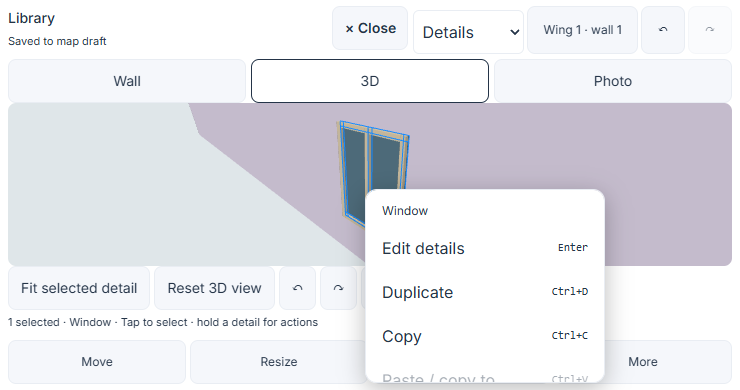
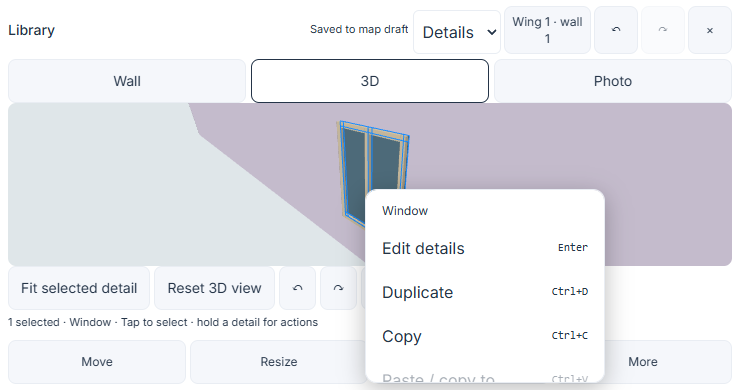
fix(editor): restore original mobile close control

diff --git a/web/src/photo-model.css b/web/src/photo-model.css
@@ -541,11 +541,8 @@
   display: none;
 }
 .model-compact header {
-  display: grid;
-  grid-template-columns: minmax(0, 1fr) auto;
-  grid-template-rows: auto auto;
-  column-gap: 8px;
-  row-gap: 0;
+  display: flex;
+  gap: 6px;
   padding: 0;
   min-height: 34px;
   flex: 0 0 auto;
@@ -563,21 +560,10 @@
   flex: 1;
 }
 .model-compact header output {
-  grid-column: 1;
-  grid-row: 2;
   font-size: 11px;
-  max-width: 100%;
-  max-height: 28px;
+  max-width: 42%;
+  max-height: 42px;
   overflow: auto;
-}
-.model-compact .model-close-workspace {
-  grid-column: 2;
-  grid-row: 1 / 3;
-  min-width: 76px;
-  min-height: 44px;
-  padding: 6px 10px;
-  font-weight: 600;
-  align-self: start;
 }
 .model-compact header [data-slot='dialog-description'],
 .model-compact .model-main-toolbar,
@@ -587,7 +573,7 @@
 }
 .model-mobile-navigation {
   display: grid;
-  grid-template-columns: minmax(70px, 1fr) minmax(50px, 1fr) 44px 44px;
+  grid-template-columns: minmax(70px, 1fr) minmax(50px, 1fr) 44px 44px 44px;
   gap: 3px;
 }
 .model-mobile-navigation label {

diff --git a/web/src/PhotoModelWorkspace.tsx b/web/src/PhotoModelWorkspace.tsx
@@ -1037,15 +1037,6 @@ function ModelWorkspace({
                 {state}
                 {workspace?.error ? ` · ${workspace.error}` : ''}
               </output>
-              {compact && (
-                <button
-                  className="model-close-workspace"
-                  aria-label="Close workspace"
-                  onClick={onClose}
-                >
-                  <span aria-hidden="true">×</span> Close
-                </button>
-              )}
             </header>
             {compact && (
               <div className="model-mobile-navigation">
@@ -1097,6 +1088,9 @@ function ModelWorkspace({
                   }}
                 >
                   ↷
+                </button>
+                <button aria-label="Close workspace" onClick={onClose}>
+                  ×
                 </button>
               </div>
             )}

diff --git a/web/tests/browser/editor.spec.ts b/web/tests/browser/editor.spec.ts
@@ -6395,7 +6395,12 @@ for (const viewport of [
       name: 'Close workspace',
       exact: true,
     });
-    await expect(close).toHaveText('× Close');
+    await expect(close).toHaveText('×');
+    await expect(
+      dialog
+        .locator('.model-mobile-navigation')
+        .getByRole('button', { name: 'Close workspace', exact: true }),
+    ).toBeVisible();
     const assertClose = async () => {
       const b = (await close.boundingBox())!;
       expect(b.x).toBeGreaterThanOrEqual(0);

diff --git a/docs/MODEL-EDITOR-VERIFICATION.md b/docs/MODEL-EDITOR-VERIFICATION.md
@@ -126,13 +126,13 @@ The repaired owner draft subsequently completed the [release workflow](https://g
 
 ### Mobile exit, landscape tools and globe location · 2026-09-25
 
-The mobile header now has a labelled **× Close** control. Short landscape layouts put scrollable tools beside the canvas and retain a usable preview, mode selector and undo controls. Touch-holding a visible 3D detail for 550 ms opens the shared selection menu; the synthetic mouse events emitted on touch release are consumed on that canvas so they cannot immediately dismiss it. Orbiting, a second pointer, cancellation, hidden previews and unmount cancel pending holds. Review links expand the selected wall's evidence controls and explain why a visually valid edit still requires renewed review.
+The original **×** close control remains beside Undo/Redo, as requested. Short landscape layouts put scrollable tools beside the canvas and retain a usable preview, mode selector and undo controls. Touch-holding a visible 3D detail for 550 ms opens the shared selection menu; the synthetic mouse events emitted on touch release are consumed on that canvas so they cannot immediately dismiss it. Orbiting, a second pointer, cancellation, hidden previews and unmount cancel pending holds. Review links expand the selected wall's evidence controls and explain why a visually valid edit still requires renewed review.
 
 GPS layers are no longer limited to campus zoom, and the world-view CSS no longer hides motion markers. Exploring with foreground GPS tracking enables the existing optional compass service. The globe uses projected local headings, retains manual camera control, labels stale fixes and removes stale direction readings. No map geometry, permissions, database schema or package schema changes are involved.
 
 Final checks: **515 Vitest tests across 66 files**, application/functions TypeScript, and lint passed (seven existing warnings). **13 targeted Chromium browser journeys** passed: long press/release and orbit cancellation; keyboard selection actions; landscape at 740 × 390 and 844 × 320; controls at 320 × 450; touch move/resize/pinch/recovery; all modes at 320 × 720, 768 × 900 and 1024 × 390; existing navigation compass behavior; and live globe position, heading, manual-camera preservation, antimeridian movement, stale data and foreground suspension. Some software-rendered navigation/globe journeys required a 120-second test deadline on this host; this is not an interaction-latency measurement.
 
-The configured production build passes every budget: public startup **421,888 / 435,200 gzip bytes**, additional editor **184,114 / 189,440**, lazy photo manager **7,617 / 12,288**, renderer/editor **199.0 / 300 KiB**, world **5.30 / 8 MiB**, voice **5.91 / 8 MiB**. Offline assets pass hash and precache checks. **Three production PWA journeys passed:** public 3D view preference after offline reload, corrupt architecture asset repair and offline reopening, and editor appearance/unfinished-roof recovery offline. Three additional fixture screenshots supplement the retained 26 production screenshots; [the inventory](assets/screenshots/README.md) identifies simulated sensor data and capture provenance. Earlier timing studies remain historical measurements; no new physical-device or frame-time performance claim is made for this repair.
+The configured production build passes every budget: public startup **421,887 / 435,200 gzip bytes**, additional editor **184,118 / 189,440**, lazy photo manager **7,620 / 12,288**, renderer/editor **198.9 / 300 KiB**, world **5.30 / 8 MiB**, voice **5.91 / 8 MiB**. Offline assets pass hash and precache checks. **Three production PWA journeys passed:** public 3D view preference after offline reload, corrupt architecture asset repair and offline reopening, and editor appearance/unfinished-roof recovery offline. Three additional fixture screenshots supplement the retained 26 production screenshots; [the inventory](assets/screenshots/README.md) identifies simulated sensor data and capture provenance. Earlier timing studies remain historical measurements; no new physical-device or frame-time performance claim is made for this repair.
 
 Physical Android/iPhone devices, native mobile keyboards, browser-level 200% zoom, thermal/memory pressure and a human screen-reader session were unavailable. Automated narrow/short viewport reflow, semantic labels, keyboard input, focus restoration and touch gestures do not replace those checks. Photographs still do not establish exact dimensions or unseen elevations.
 

diff --git a/docs/UNIFIED-MODEL-EDITOR.md b/docs/UNIFIED-MODEL-EDITOR.md
@@ -8,7 +8,7 @@ Use the searchable building hierarchy or the mapped-wall selector to choose a wi
 
 Desktop panels can be resized. At widths up to 900 px, and on touch devices in short landscape viewports, the workspace gives the canvas the remaining screen. A labelled mode selector keeps Details, Appearance, Roof, Outline and Review reachable. Switch between **Wall / 3D / Photo**, or **Plan / 3D / Photo** for roofs and outlines. Appearance initially opens 3D. Changing layouts keeps the draft and selection.
 
-**Choose wall** opens the searchable hierarchy. **Add**, **Edit** and **More** open one focused sheet at a time. Expand or collapse it with its labelled controls or drag its handle; **Done** closes the tools. The clearly labelled **× Close** button in the top header leaves the whole workspace and preserves unfinished inputs. Portrait tools sit below the preview; short landscape screens put a scrollable tool panel beside it. Focused fields expand the panel and scroll into view. Undo, Redo, mode selection and save status stay reachable. Fit-to-selection, reset and photograph zoom help with small details. Before/after comparison uses the building as it was when the workspace opened.
+**Choose wall** opens the searchable hierarchy. **Add**, **Edit** and **More** open one focused sheet at a time. Expand or collapse it with its labelled controls or drag its handle; **Done** closes the tools. The original **×** button beside Undo/Redo leaves the whole workspace and preserves unfinished inputs. Portrait tools sit below the preview; short landscape screens put a scrollable tool panel beside it. Focused fields expand the panel and scroll into view. Undo, Redo, mode selection and save status stay reachable. Fit-to-selection, reset and photograph zoom help with small details. Before/after comparison uses the building as it was when the workspace opened.
 
 In **3D**, touch and hold a visible detail for about half a second to select it and open its action menu. Duplicate, copy, delete, lock and hide apply to that selected detail or repeated record. Dragging or adding a second finger cancels the hold and keeps orbit/pinch navigation available. Releasing a completed hold does not select again. Right-click and keyboard selection actions remain available.
 
@@ -72,7 +72,7 @@ If the building change itself should be undone, close the workspace and choose *
 
 The screenshots below use an isolated Library test fixture with two pending wall reviews; no private owner draft is shown.
 
-The compact landscape workspace keeps **× Close**, mode selection and undo controls in the header. Tools scroll beside the canvas. The second capture shows the 3D selection menu after a touch hold and release. Both use the isolated Library fixture; its illustrative window is not a published campus change.
+The compact landscape workspace keeps **×**, mode selection and undo controls in the header. Tools scroll beside the canvas. The second capture shows the 3D selection menu after a touch hold and release. Both use the isolated Library fixture; its illustrative window is not a published campus change.
 
 | Short landscape canvas and review tools | Touch-held 3D detail actions |
 | --- | --- |

diff --git a/README.md b/README.md
@@ -104,7 +104,7 @@ The globe capture uses simulated GPS and compass readings in the browser fixture
 
 ## Recent changes
 
-- **Canvas-first mobile modelling:** all five modes share a full-screen preview and one focused tool sheet. Tap selects; Move and Resize explicitly edit. **× Close** leaves the workspace and preserves unfinished work; **Done** closes only its tools. Short landscape screens put scrollable tools beside the canvas. Pinch navigation, multi-selection, held nudges and decimal inputs support precise editing. Desktop keeps its resizable panels.
+- **Canvas-first mobile modelling:** all five modes share a full-screen preview and one focused tool sheet. Tap selects; Move and Resize explicitly edit. **×** leaves the workspace and preserves unfinished work; **Done** closes only its tools. Short landscape screens put scrollable tools beside the canvas. Pinch navigation, multi-selection, held nudges and decimal inputs support precise editing. Desktop keeps its resizable panels.
 - **Actions beside the selection:** the selected detail's ⋯ button, right-click and Shift+F10 open Duplicate, Copy, Paste/copy-to, Delete, Lock and Hide. Touch and hold a detail in **3D** to open the same menu; moving or adding a second finger cancels a pending hold. Keyboard shortcuts and placement previews support quick editing without a permanent button row.
 - **Height that changes the model:** whole-building metres and floor count are editable inside Appearance. Custom roof elevations adjust proportionally by default; owners can retain recorded elevations, fit an existing mismatch or explicitly remove a wing override. Height/roof adjustments share one undo action.
 

diff --git a/docs/EDITOR.md b/docs/EDITOR.md
@@ -66,7 +66,7 @@ Decisions autosave through the existing batch API. Keep-separate decisions do no
 
 Topology and duplicate checks run in a worker. Geometry and property feedback remain immediate, and route previews wait for the current validation result. Repeated issue rows are grouped by feature identity, with all reasons shown together.
 
-The desktop layout provides the full workspace. Smaller screens support review, property changes, point placement, and moving features. The building model workspace provides all five modes on phones, with a visible **× Close** in the header and **Done** for closing only the active tool sheet. Short landscape screens keep the canvas beside a scrollable tools panel. Tap a 3D detail to select it or hold it for its action menu; an orbit drag or second touch cancels the pending hold. See [the model editor guide](UNIFIED-MODEL-EDITOR.md). Green draft geometry is new, purple is modified, amber needs attention, and red marks deletion.
+The desktop layout provides the full workspace. Smaller screens support review, property changes, point placement, and moving features. The building model workspace provides all five modes on phones, with a visible **×** beside Undo/Redo and **Done** for closing only the active tool sheet. Short landscape screens keep the canvas beside a scrollable tools panel. Tap a 3D detail to select it or hold it for its action menu; an orbit drag or second touch cancels the pending hold. See [the model editor guide](UNIFIED-MODEL-EDITOR.md). Green draft geometry is new, purple is modified, amber needs attention, and red marks deletion.
 
 ## Saving and recovery
 

diff --git a/docs/BUILDING-EDITOR.md b/docs/BUILDING-EDITOR.md
@@ -6,7 +6,7 @@ On mobile, the canvas fills the workspace and controls open in one focused sheet
 
 The selected detail's **⋯** button and right-click menu hold Duplicate, Copy, Paste/copy-to, Delete, Lock and Hide. **More → Selection actions** provides access from mobile sheets. Ctrl/Cmd+D duplicates; Ctrl/Cmd+C/V copies and opens a placement preview; Ctrl/Cmd+A selects the wall's details. Shift+F10 opens the menu. These shortcuts do not replace normal editing inside text inputs.
 
-Touch and hold a visible detail in **3D** to open the same actions. Moving your finger or touching with a second finger cancels the hold. **× Close** in the mobile header exits the workspace; **Done** only closes its current tool panel. Short landscape screens place tools beside the canvas, with independent scrolling.
+Touch and hold a visible detail in **3D** to open the same actions. Moving your finger or touching with a second finger cancels the hold. **×** beside Undo/Redo exits the workspace; **Done** only closes its current tool panel. Short landscape screens place tools beside the canvas, with independent scrolling.
 
 ## Select and place
 
